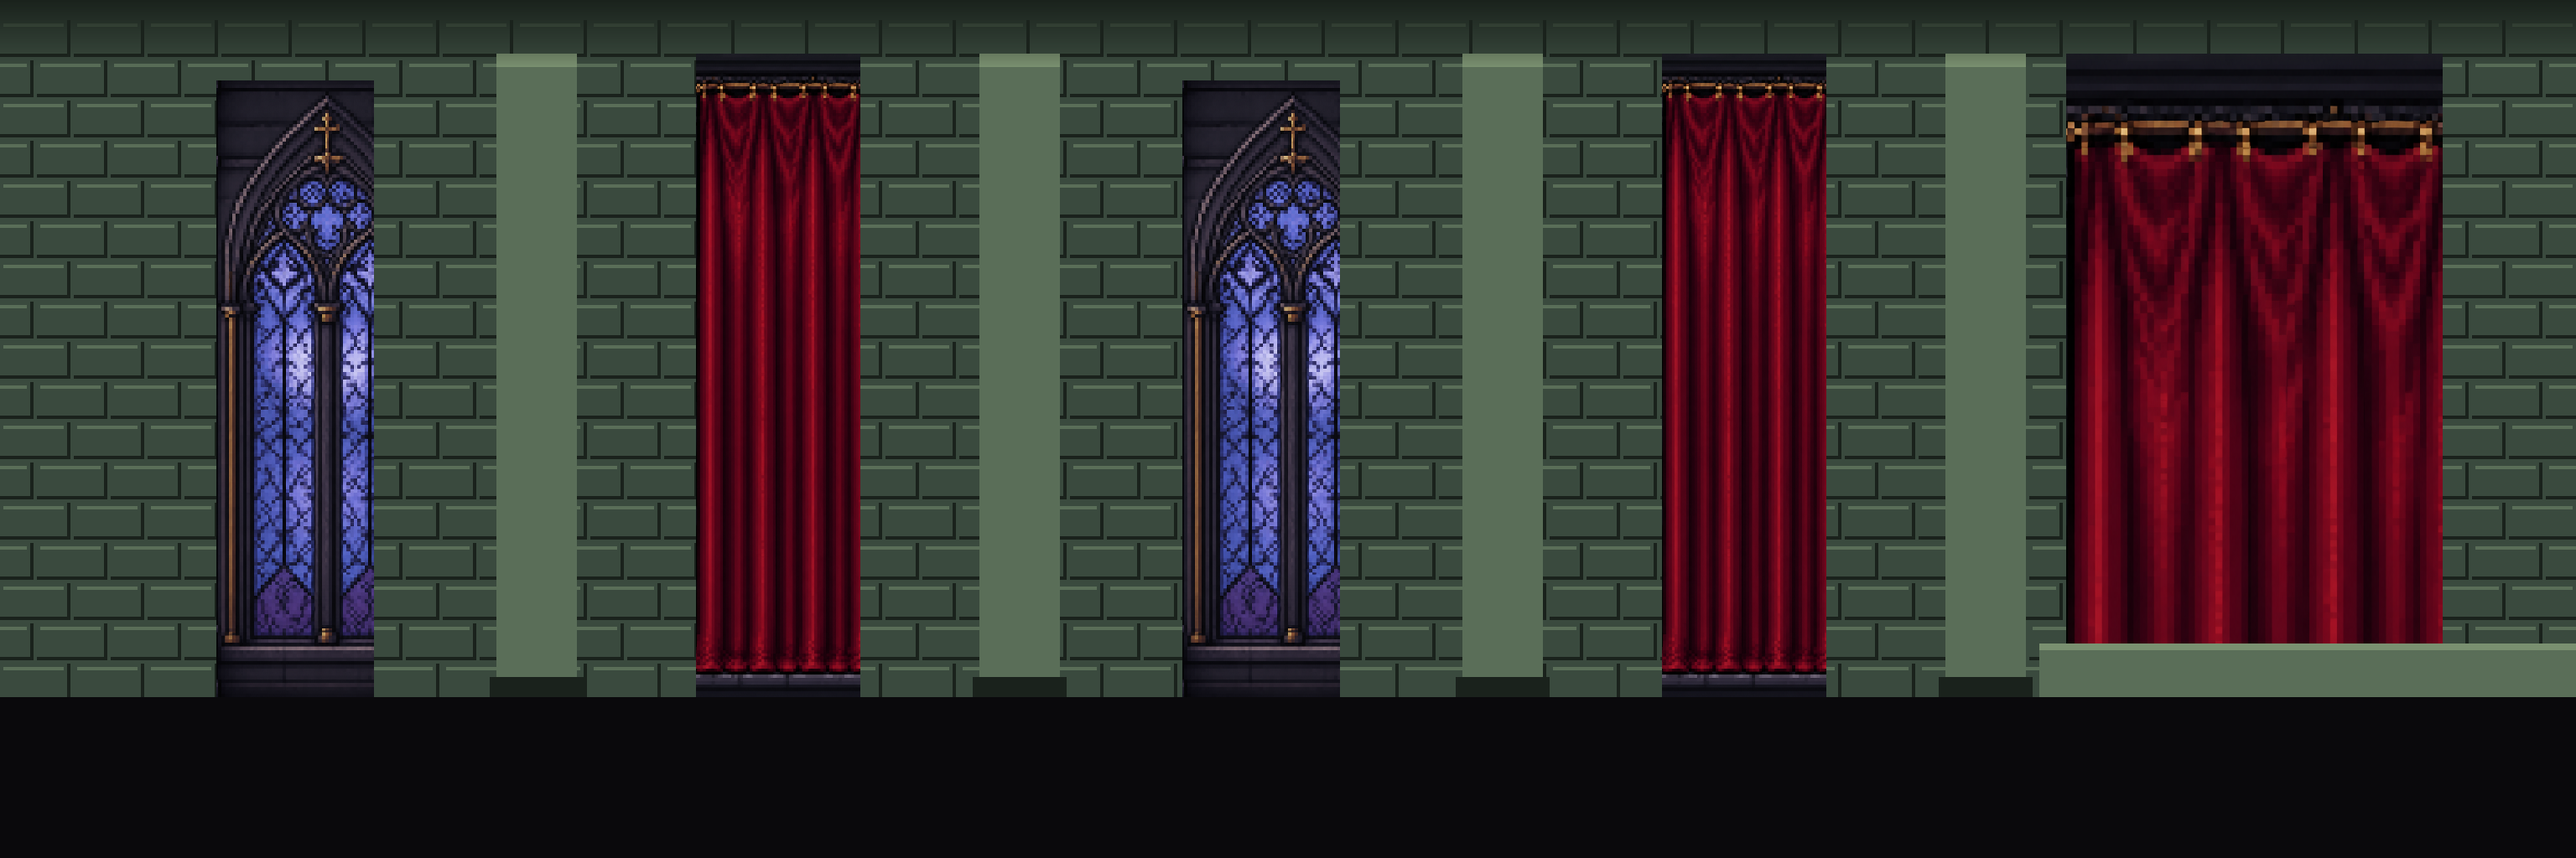
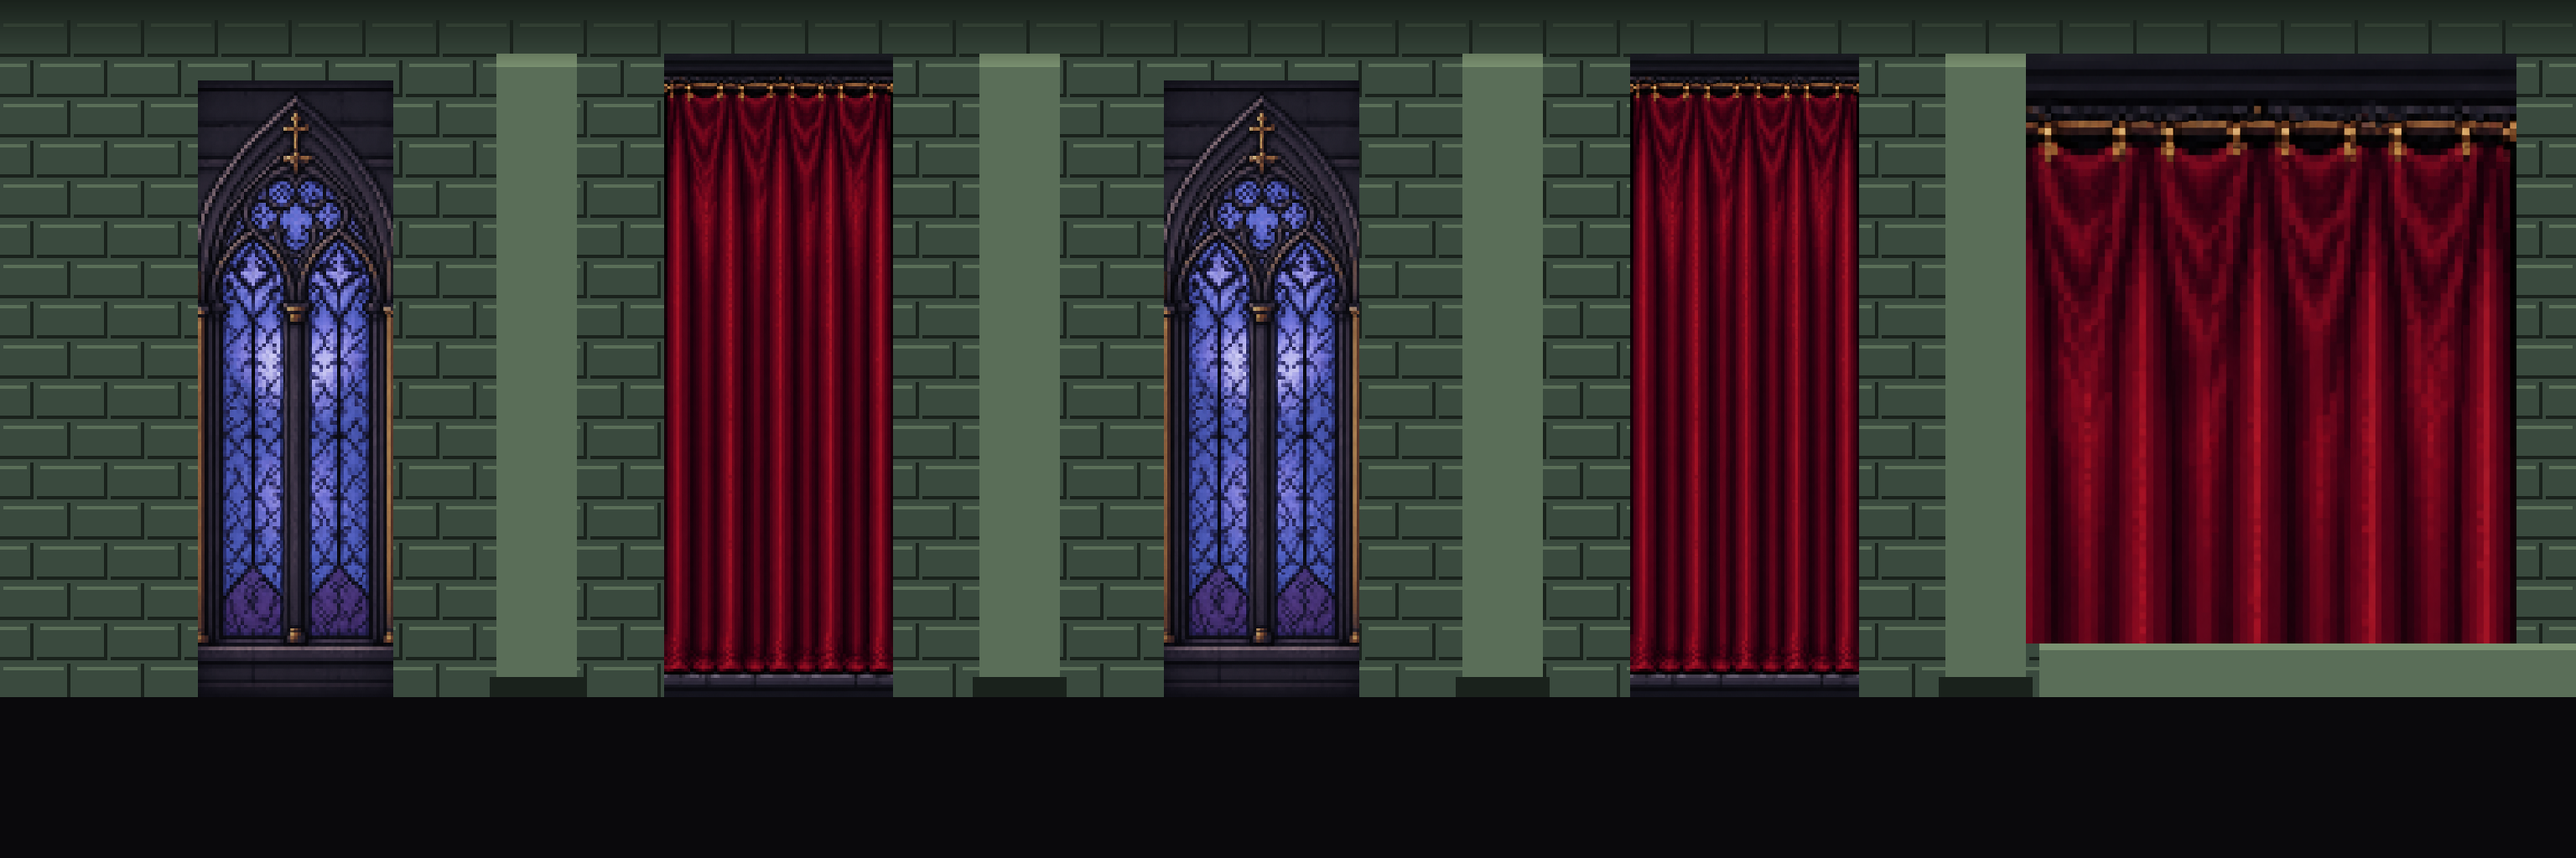
fix(art): correct window/curtain crop that was clipping both modules
User caught it live: throne and chapel windows looked cut off on the right.
Root cause: MODULE_CONTENT_CROP {x:210, w:522} was eyeballed for the curtain
module and reused for the window module without measuring — and the
original curtain measurement (§9.2/9.5) itself used too loose a saturation
threshold and too coarse a sampling step, so it passed its own check while
still being wrong.

Re-measured properly (saturation profile across a horizontal band):
- window glass actually spans x=252-900 of 1152 (old crop stopped at 732,
  missing ~26% of the arch)
- curtain cloth actually spans x=212-940 (old crop was cutting this too)

Split into WINDOW_CONTENT_CROP / CURTAIN_CONTENT_CROP (measured
independently, no shared guess) and recomposed both rooms.

diff --git a/docs/ART_PIPELINE.md b/docs/ART_PIPELINE.md
@@ -718,3 +718,31 @@ mudanças depois de navegar com um query-string novo
 (`?cachebust=<n>`), que força o browser a tratar como URL diferente e
 buscar tudo de novo. Se um teste no browser parecer "não pegar" uma mudança
 recente de código (mas os assets sim), suspeitar disso primeiro.
+
+### 9.9 Bug real: recorte dos módulos de vitral/cortina cortava o vão (corrigido)
+
+O usuário notou, jogando ao vivo, que as janelas do trono e da capela
+apareciam cortadas do lado direito. Causa raiz: `MODULE_CONTENT_CROP` em
+`tools/lib/backdrop-compose.mjs` usava `{x:210, w:522}` para os DOIS módulos
+(vitral e cortina) — valor obtido de olho para a cortina e simplesmente
+reaproveitado para o vitral, sem medir. Medindo de verdade (perfil de
+saturação numa faixa horizontal, mesmo método do §9.2):
+
+- vitral: conteúdo real vai de x=252 a x=900 (de 1152) — o crop antigo
+  parava em 732, faltando ~26% do arco.
+- cortina: conteúdo real vai de x=212 a x=940 — o crop antigo TAMBÉM
+  cortava, quase na mesma proporção; a "medição" original (§9.5) usou um
+  limiar de saturação frouxo demais e uma amostragem grossa (step 8),
+  passando no próprio teste que deveria ter pego o erro.
+
+Corrigido: `WINDOW_CONTENT_CROP {x:252,w:648}` e
+`CURTAIN_CONTENT_CROP {x:212,w:728}`, uma constante por módulo em vez de uma
+compartilhada. `compose-throne-backdrop.mjs` e `compose-chapel-backdrop.mjs`
+recompostos e revalidados (screenshot no browser, arco simétrico dos dois
+lados).
+
+**Lição:** "medi com um script" não é garantia de precisão — o limiar e o
+passo de amostragem importam tanto quanto o método. Qualquer crop de
+conteúdo gerado por IA precisa ser conferido visualmente após a medição
+(sobrepor o crop na imagem original, não confiar só no número), não só
+depois de composto na versão final.
